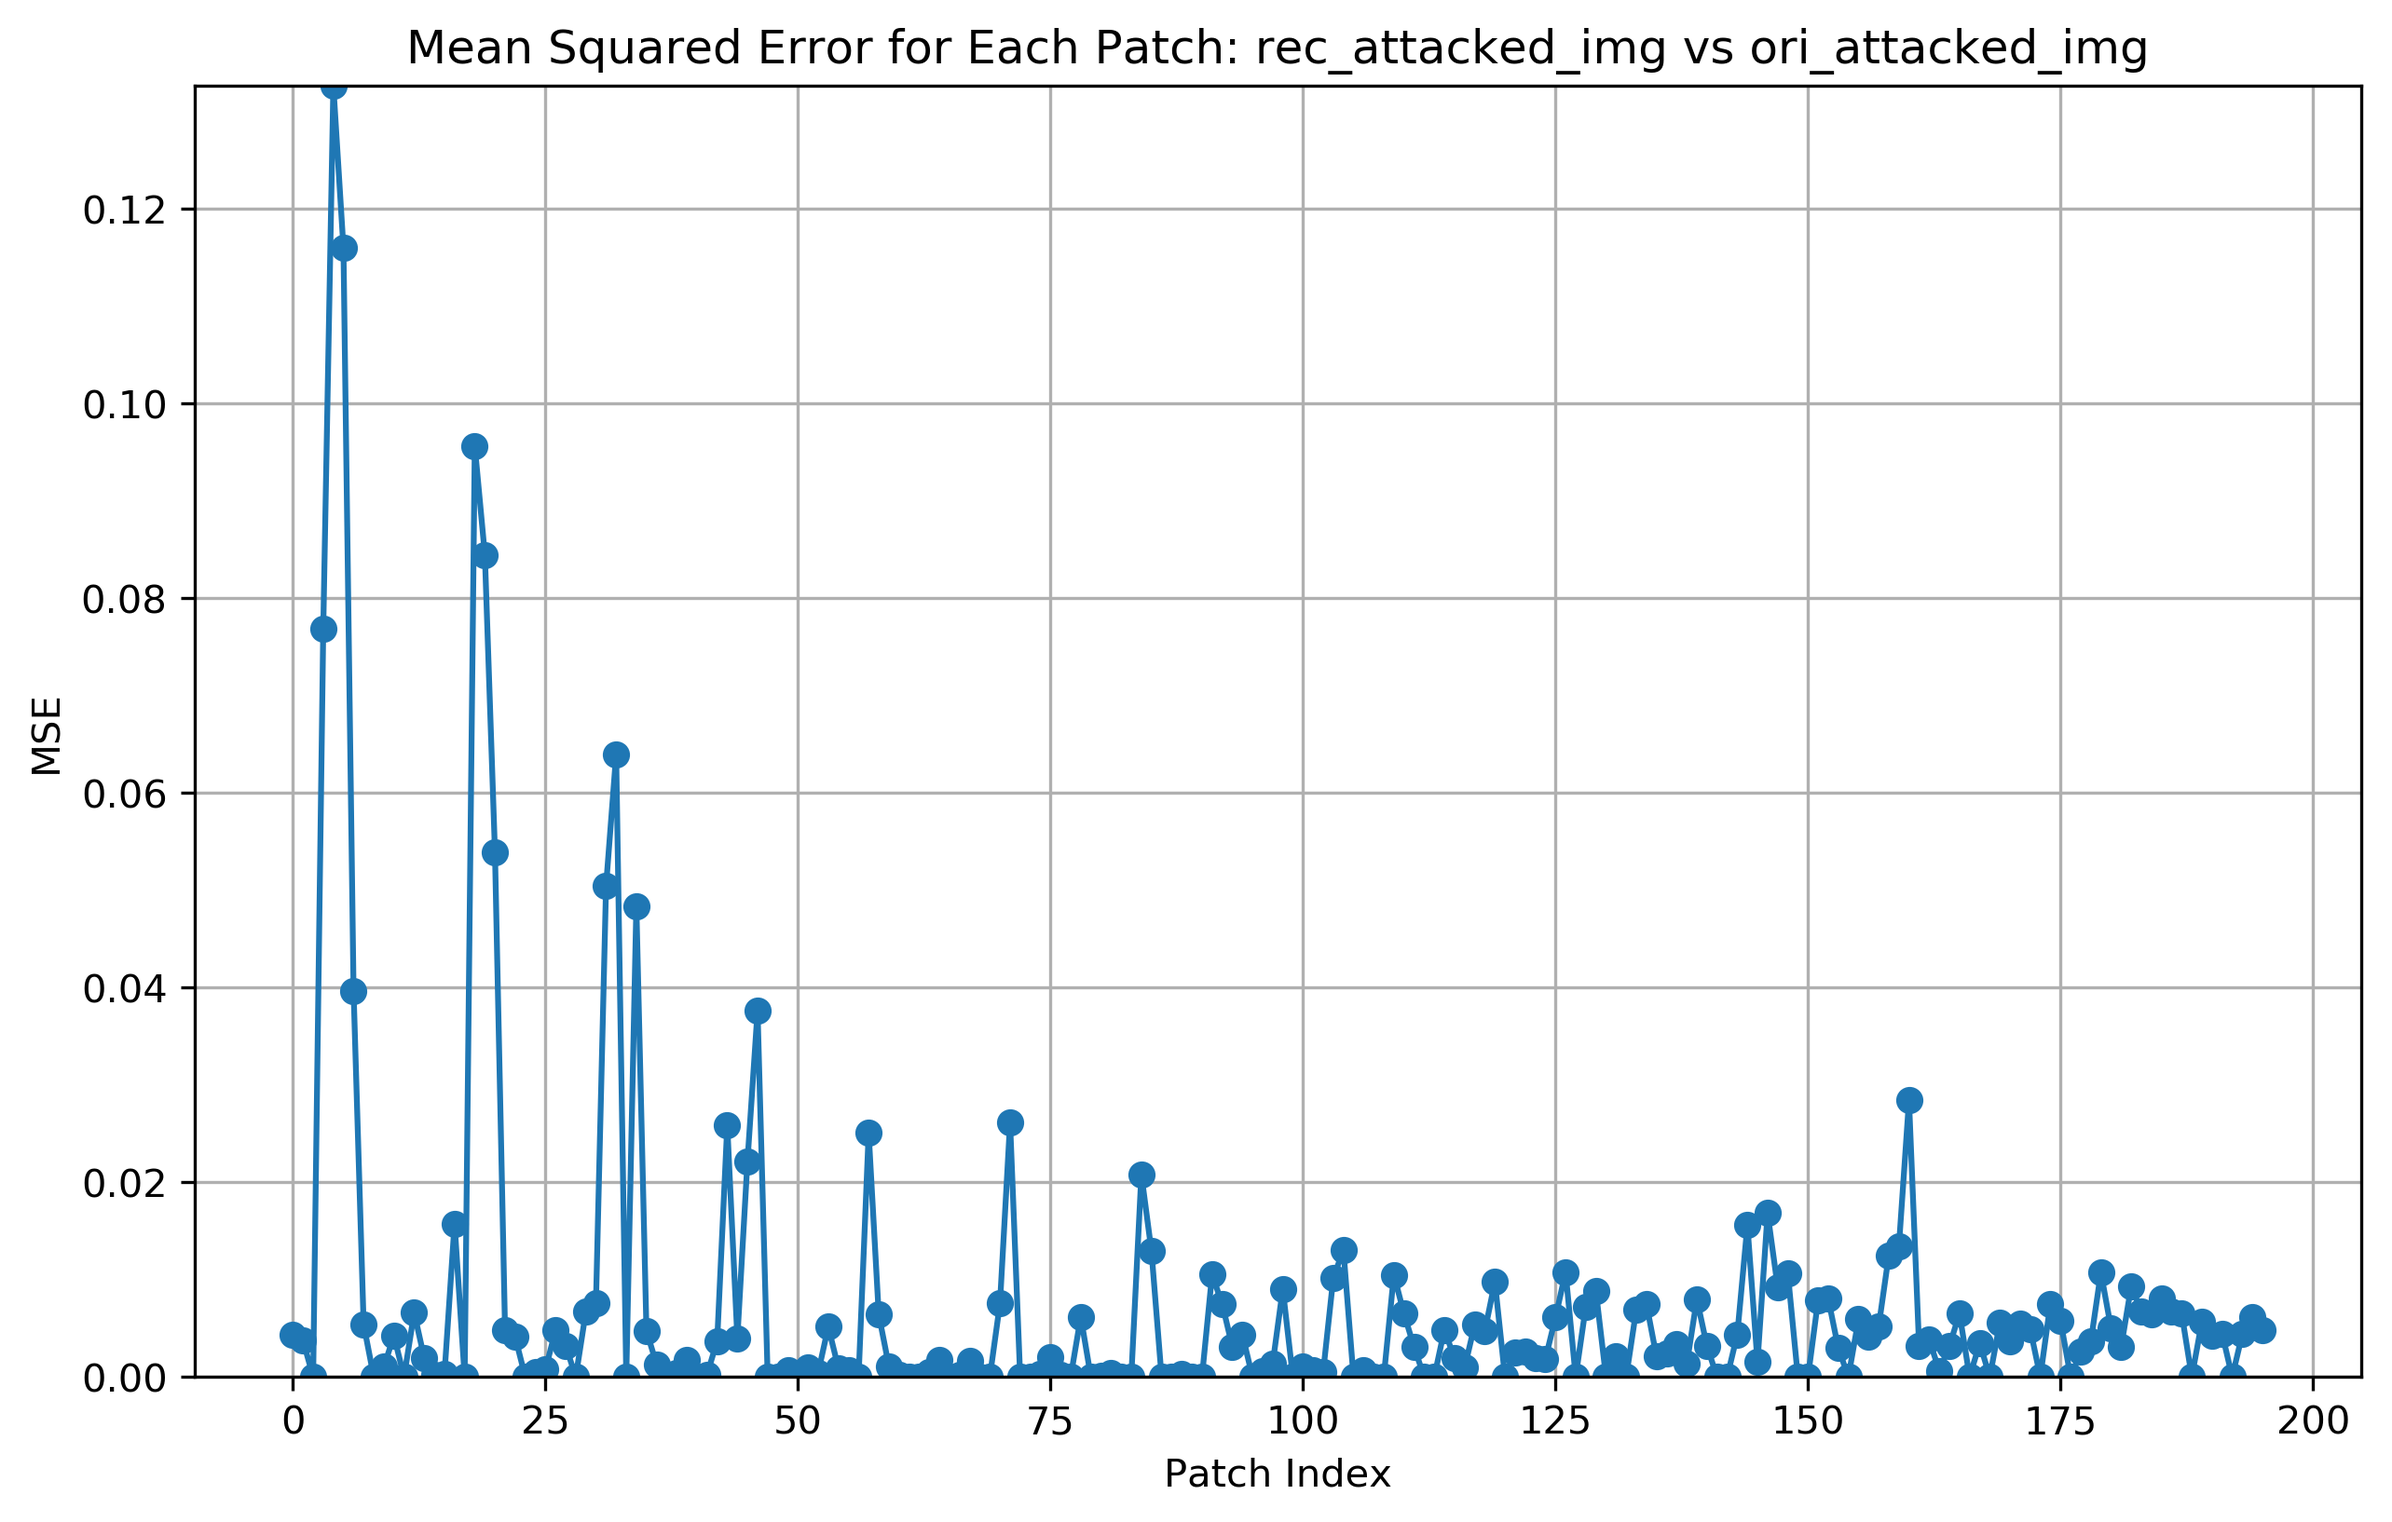
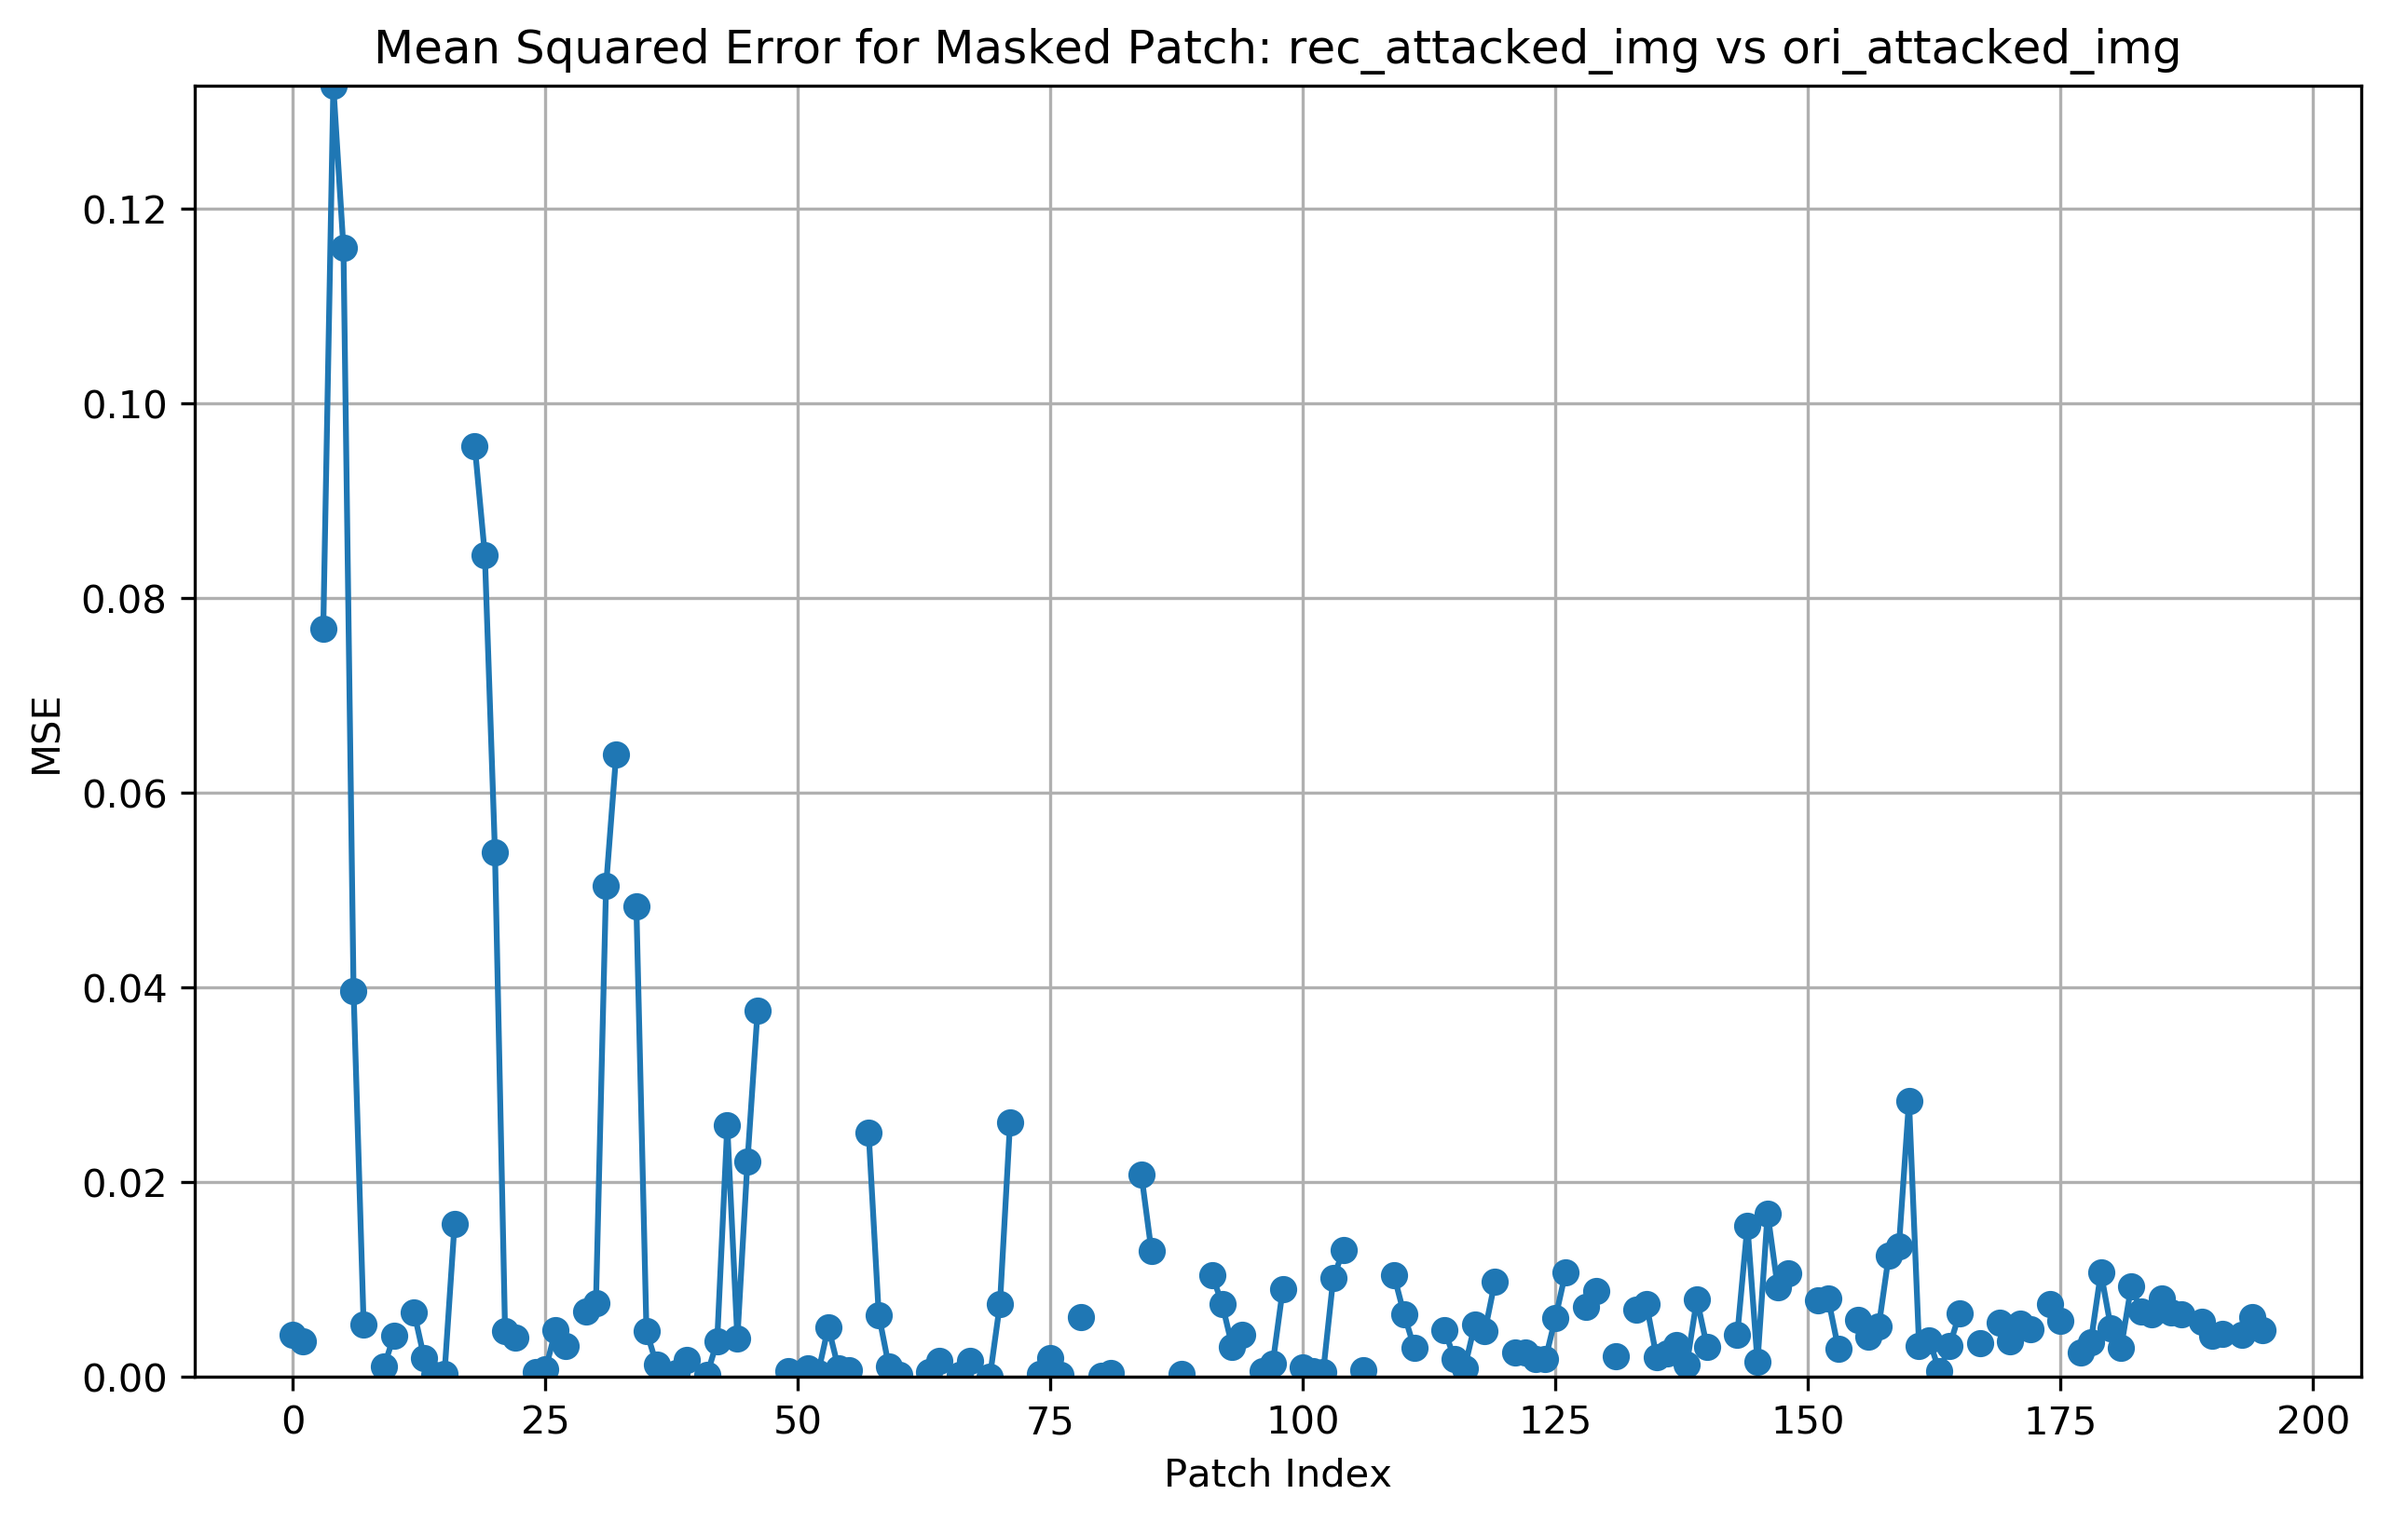
masked patches mse loss on fixed seed=42

diff --git a/run_mae_vis.py b/run_mae_vis.py
@@ -93,20 +93,31 @@ def compute_pixelwise_accuracy(original, reconstructed, threshold=0.05):
     
     return accuracy.item()
 
-def calculate_patchwise_mse(img, rec_img, patch_size):
+def calculate_patchwise_mse(img, rec_img, bool_masked_pos, patch_size):
     """Calculate Mean Squared Error for each patch."""
     mse_losses = []
-    patch_indexes = []
-    for i in range(0, img.shape[2], patch_size[0]):
-        for j in range(0, img.shape[3], patch_size[1]):
-            patch_ori = img[:, :, i:i+patch_size[0], j:j+patch_size[1]]
-            patch_rec = rec_img[:, :, i:i+patch_size[0], j:j+patch_size[1]]
-            
-            mse = ((patch_ori - patch_rec) ** 2).mean().item()
-            mse_losses.append(mse)
-            patch_indexes.append((i, j))
+    masked_losses = []  # Store MSE for only masked patches
     
-    return mse_losses
+    patches_per_side = img.shape[2] // patch_size[0]
+    
+    for idx in range(patches_per_side * patches_per_side):
+        row = idx // patches_per_side
+        col = idx % patches_per_side
+        i, j = row * patch_size[0], col * patch_size[1]
+        patch_ori = img[:, :, i:i+patch_size[0], j:j+patch_size[1]]
+        patch_rec = rec_img[:, :, i:i+patch_size[0], j:j+patch_size[1]]
+
+        mse = ((patch_ori - patch_rec) ** 2).mean().item()
+
+        if bool_masked_pos[0, idx]:  # Only calculate MSE for masked patches
+            mse_losses.append(mse)
+            masked_losses.append(mse)
+        else:
+            mse_losses.append(float('nan'))  # Placeholder for non-masked patches with NaN
+
+    avg_masked_mse = sum(masked_losses) / len(masked_losses) if masked_losses else None
+    return mse_losses, avg_masked_mse
+
 
 
 def plot_mse_per_patch(mse_losses, save_path, title, y_range):
@@ -122,16 +133,21 @@ def plot_mse_per_patch(mse_losses, save_path, title, y_range):
     plt.savefig(save_path, bbox_inches='tight', dpi=300)
 
 
-def assessment(img, rec_img, img_type, patch_size):
+def assessment(img, rec_img, bool_masked_pos, img_type, patch_size):
     print(f"Accuracy of rec_{img_type}_vs_ori_{img_type}: ", compute_pixelwise_accuracy(img, rec_img))
 
-    mse_losses = calculate_patchwise_mse(img, rec_img, patch_size)
+    mse_losses, avg_masked_mse = calculate_patchwise_mse(img, rec_img, bool_masked_pos, patch_size)
+
+    if avg_masked_mse is not None:
+        print(f"Average MSE loss on masked patches (rec_{img_type}_vs_ori_{img_type}):", avg_masked_mse)
+    else:
+        print("No masked patches detected.")
     print(f"Average MSE loss (rec_{img_type}_vs_ori_{img_type}):", np.mean(mse_losses))
 
     # calculate y-range for the MSE plots so they share the same y-axis range:
     y_range = (min(mse_losses), max(mse_losses))
 
-    plot_mse_per_patch(mse_losses, save_path=f'out/rec_{img_type}_vs_ori_{img_type}.png', title=f'Mean Squared Error for Each Patch: rec_{img_type}_img vs ori_{img_type}_img', y_range=y_range)
+    plot_mse_per_patch(mse_losses, save_path=f'out/rec_{img_type}_vs_ori_{img_type}.png', title=f'Mean Squared Error for Masked Patch: rec_{img_type}_img vs ori_{img_type}_img', y_range=y_range)
 
 def main(args):
     print(args)
@@ -200,7 +216,7 @@ def main(args):
         img = ToPILImage()(img_mask[0, :])
         img.save(f"{args.save_path}/mask_{img_type}_img.jpg")
 
-        assessment(ori_img, rec_img, img_type, patch_size)
+        assessment(ori_img, rec_img, bool_masked_pos, img_type, patch_size)
 
         print("----------------------------------------------------------")
         
